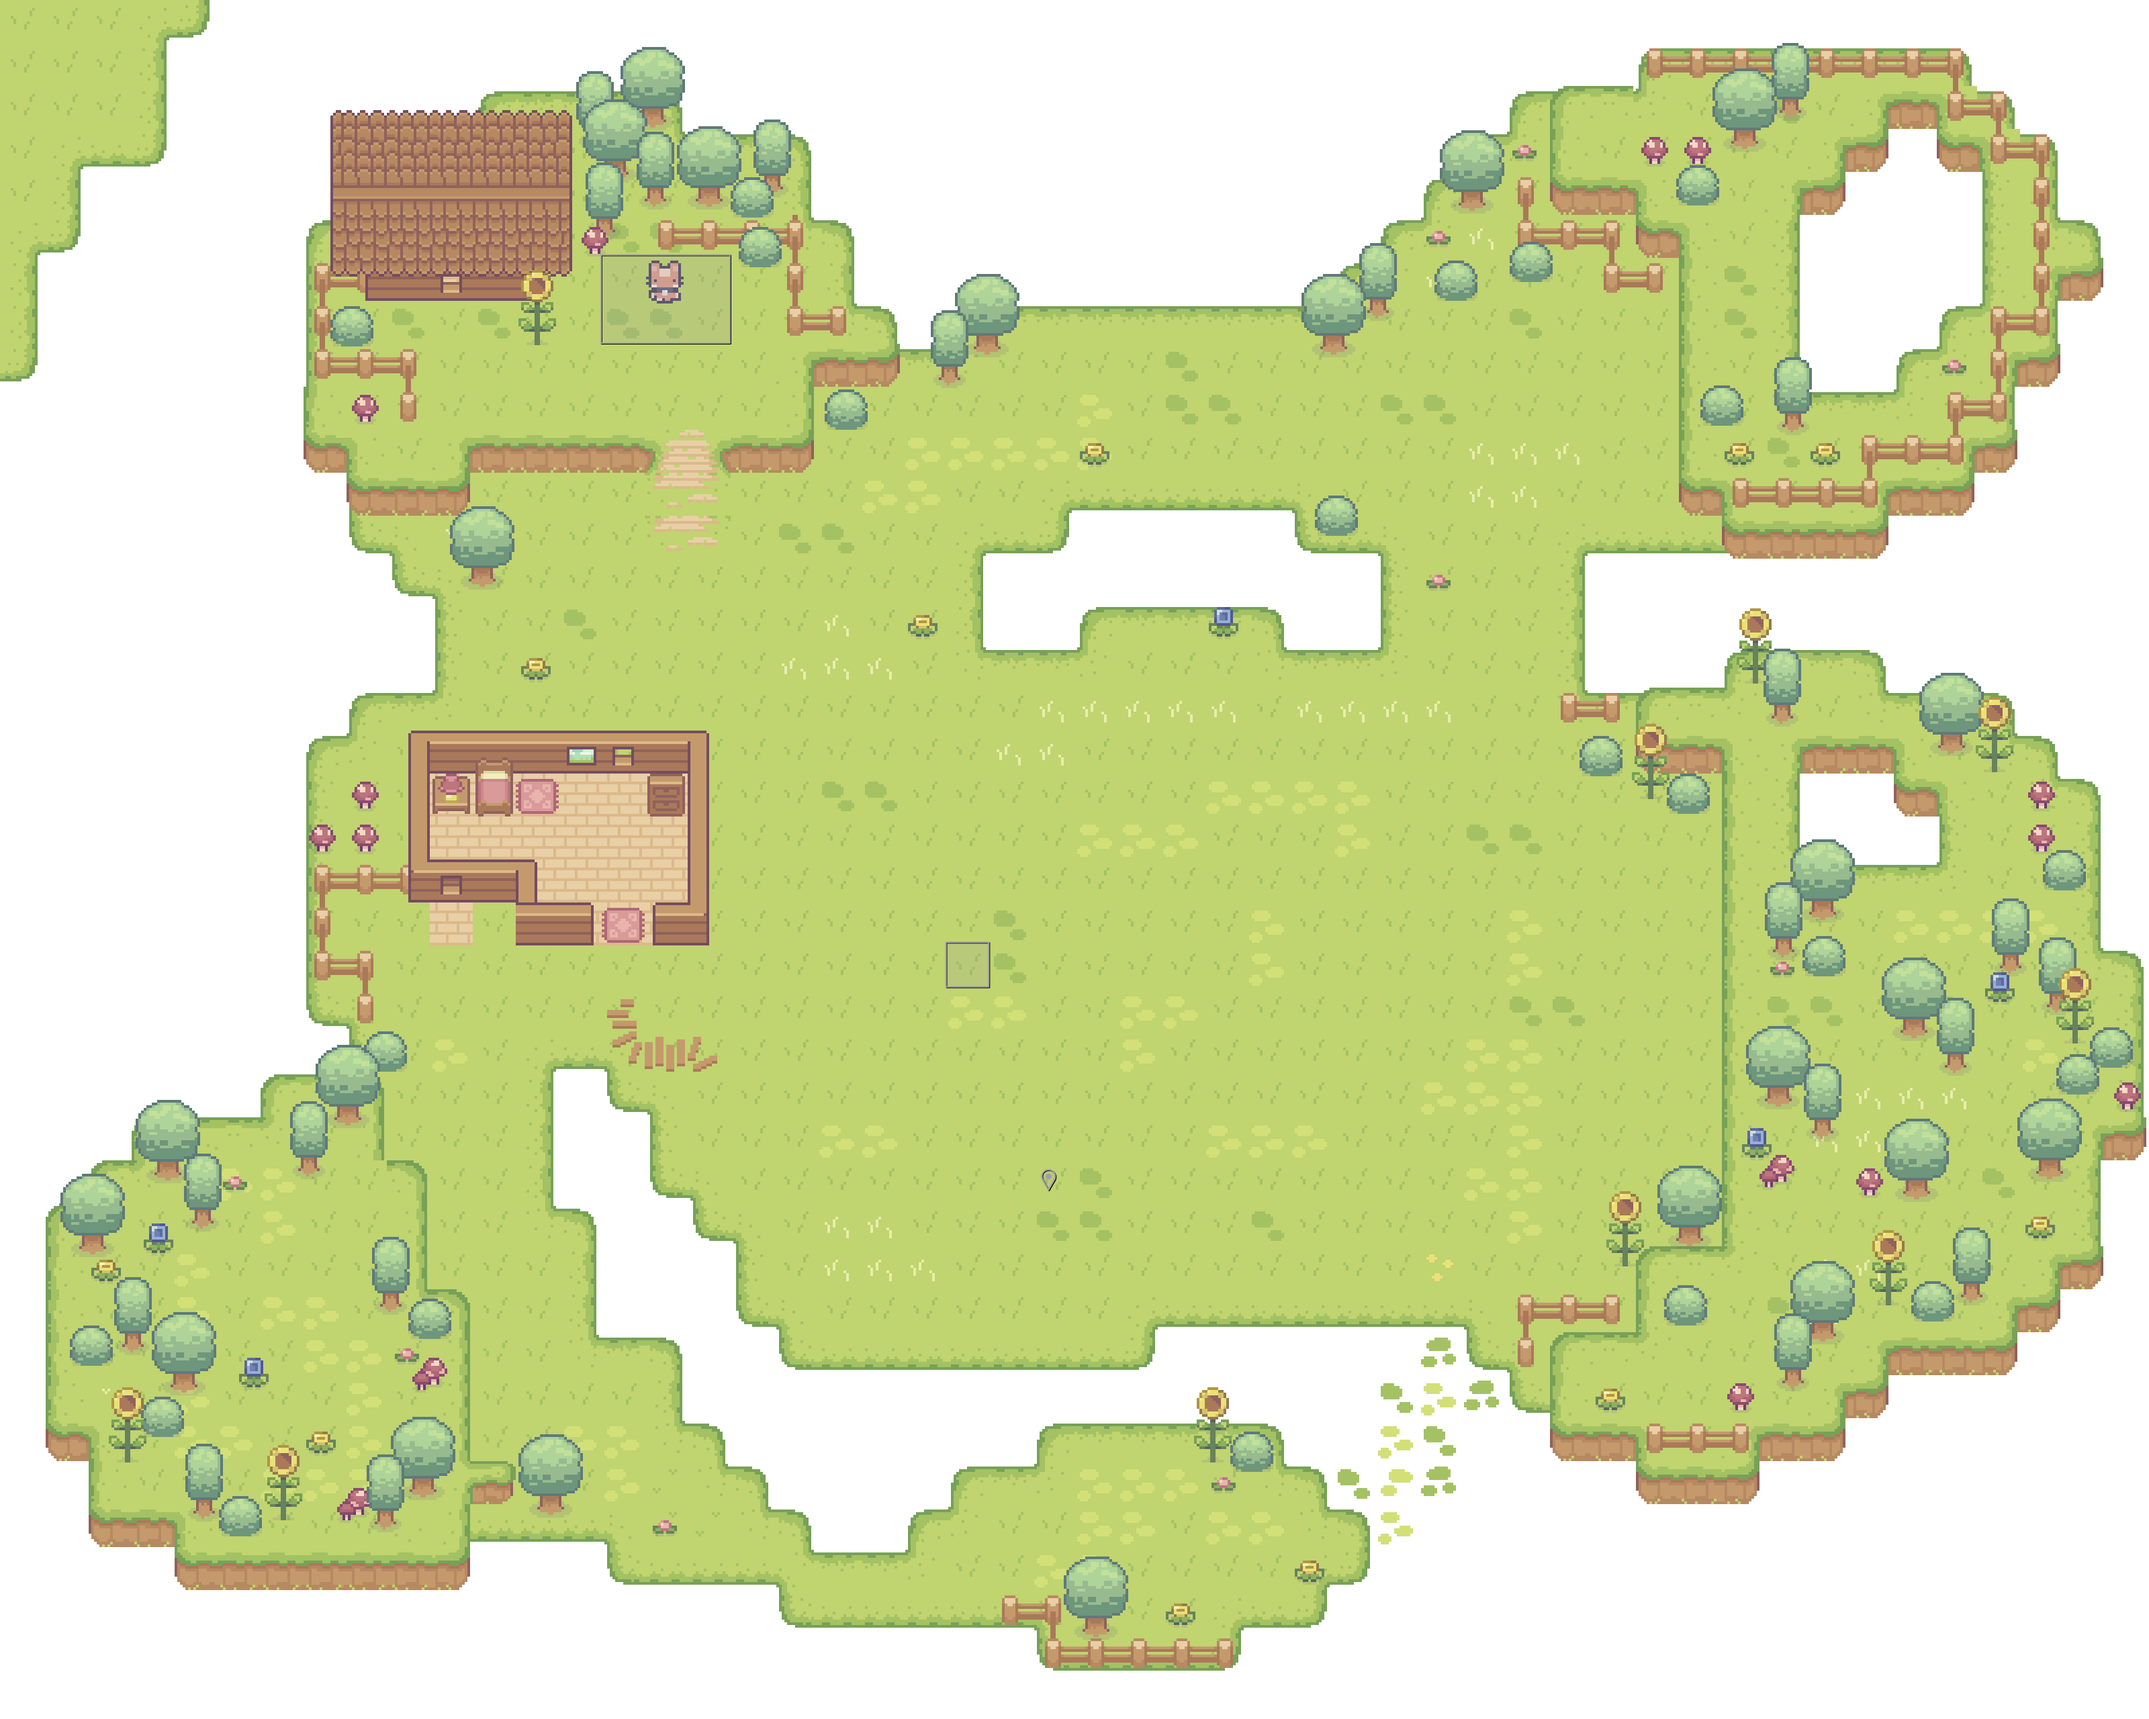
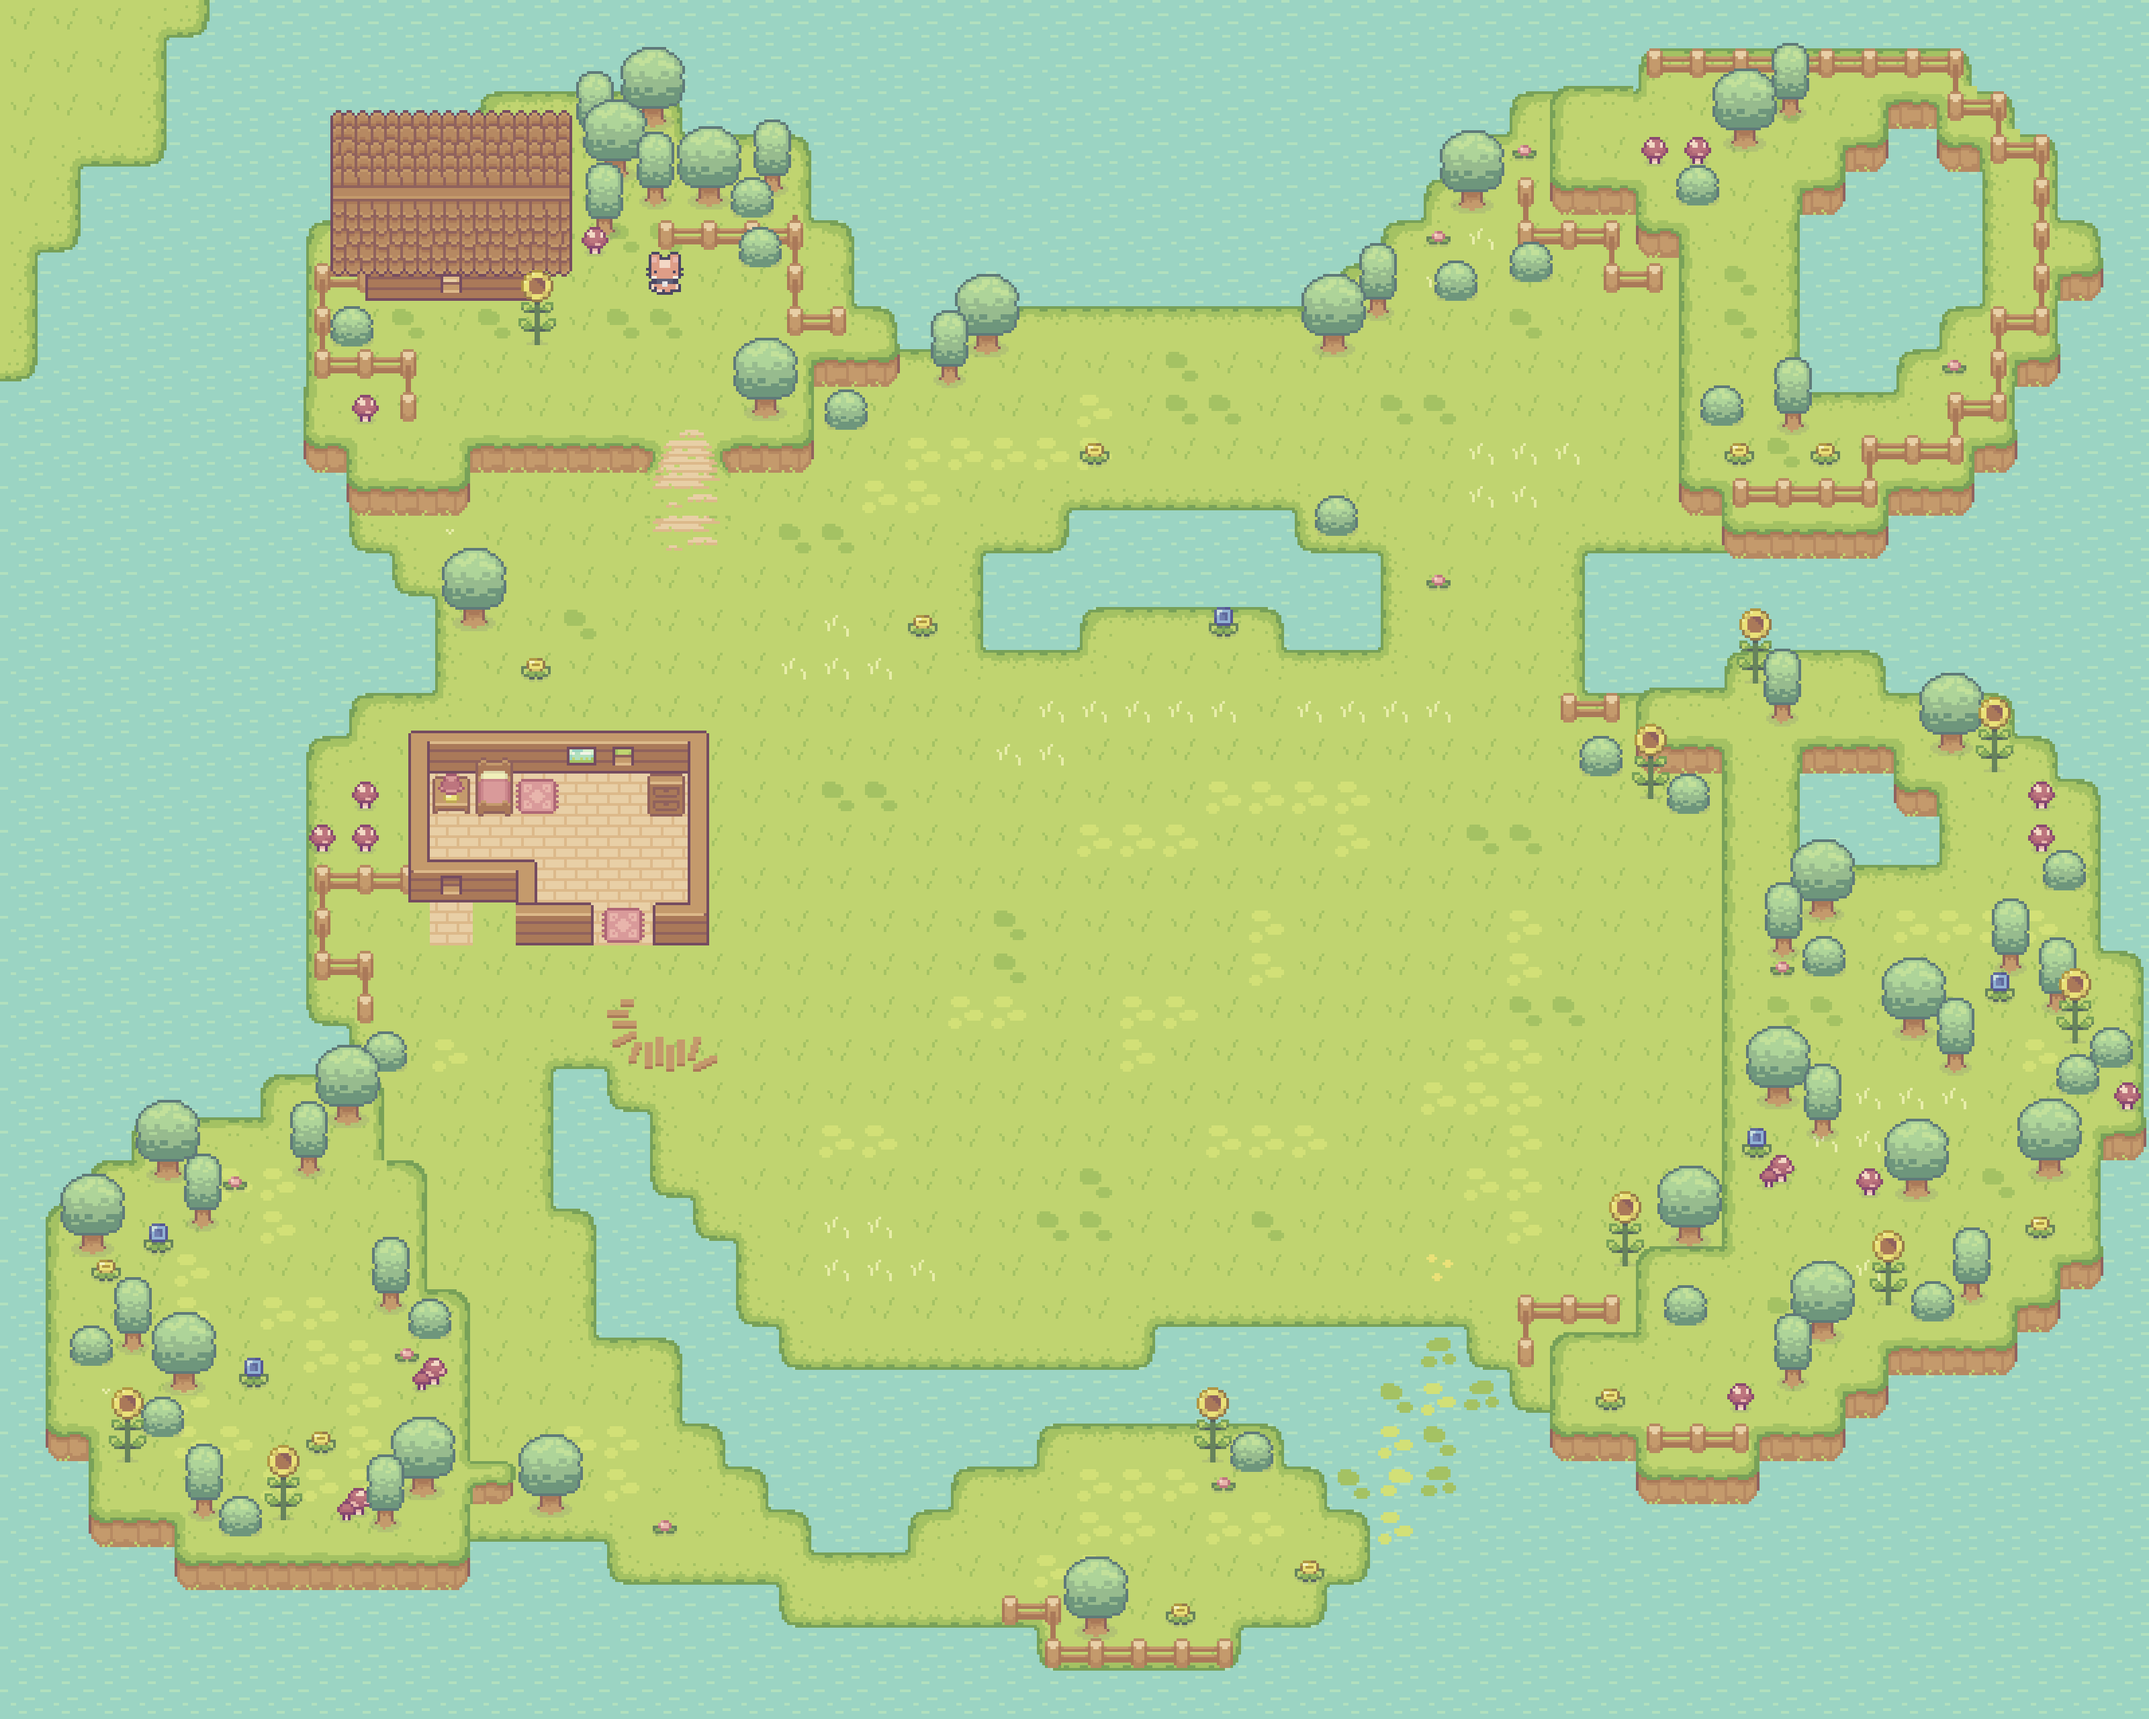
完成地图绘制、基本玩家设置、商店功能（导入外部中文字库），存在不能切换工具和种子的bug

diff --git a/code/test.py b/code/test.py
@@ -21,15 +21,14 @@ PLAYER_TOOL_OFFSET = {
 	'down': Vector2(0,50)}
 #图层顺序
 LAYERS = {
-	'water': 0,
-	'ground': 1,
-	'soil': 2,
-	'soil water': 3,
-	'house bottom': 4,
-	'ground plant': 5,
-	'main': 6,
-	'house top': 7,
-	'fruit': 8,}
+	'ground': 0,
+	'soil': 1,
+	'soil water': 2,
+	'house bottom': 3,
+	'ground plant': 4,
+	'main': 5,
+	'house top': 6,
+	'fruit': 7,}
 #作物生长速度
 GROW_SPEED = {
 	'corn': 1,
@@ -87,7 +86,7 @@ def import_folder_dict(path):
 			surface_dict[image.split('.')[0]] = image_surf
 	return surface_dict
 
-#计时器-----------------------------------------------------------
+#计时器（动作激活时间长短）-----------------------------------------------------------
 class Timer:
 	def __init__(self,duration,func = None):
 		self.duration = duration
@@ -149,27 +148,6 @@ class Interaction(Generic):
 		super().__init__(pos, surf, groups)
 		self.name = name
 
-class Water(Generic):
-	def __init__(self, pos, frames, groups):
-		#animation setup
-		self.frames = frames
-		self.frame_index = 0
-		# sprite setup
-		super().__init__(
-				pos = pos, 
-				surf = self.frames[self.frame_index], 
-				groups = groups, 
-				z = LAYERS['water']) 
-
-	def animate(self,dt):
-		self.frame_index += 5 * dt
-		if self.frame_index >= len(self.frames):
-			self.frame_index = 0
-		self.image = self.frames[int(self.frame_index)]
-
-	def update(self,dt):
-		self.animate(dt)
-
 class WildFlower(Generic):
 	def __init__(self, pos, surf, groups):
 		super().__init__(pos, surf, groups)
@@ -185,11 +163,6 @@ class Particle(Generic):
 		new_surf = mask_surf.to_surface()
 		new_surf.set_colorkey((0,0,0))
 		self.image = new_surf
-
-	def update(self,dt):
-		current_time = pygame.time.get_ticks()
-		if current_time - self.start_time > self.duration:
-			self.kill()
 
 	def update(self,dt):
 		current_time = pygame.time.get_ticks()
@@ -239,7 +212,6 @@ class Player(pygame.sprite.Sprite):
 
 		# 玩家初始背包
 		self.item_inventory = {
-			'wood':   20,
 			'apple':  20,
 			'corn':   20,
 			'tomato': 20
@@ -250,7 +222,7 @@ class Player(pygame.sprite.Sprite):
 		}
 		self.money = 200
 
-		# 交互初始化
+		# 交互初始化（睡觉、土地、商店）
 		self.interaction = interaction
 		self.sleep = False
 		self.soil_layer = soil_layer
@@ -271,7 +243,7 @@ class Player(pygame.sprite.Sprite):
      #获取工具使用目标位置
 	def get_target_pos(self):
 		self.target_pos = self.rect.center + PLAYER_TOOL_OFFSET[self.status.split('_')[0]]
-
+	#种地动作
 	def use_seed(self):
 		if self.seed_inventory[self.selected_seed] > 0:
 			self.soil_layer.plant_seed(self.target_pos, self.selected_seed)
@@ -296,7 +268,6 @@ class Player(pygame.sprite.Sprite):
     #键盘输入
 	def input(self):
 		keys = pygame.key.get_pressed()
-
 		if not self.timers['tool use'].active and not self.sleep:
 			# 移动 获得方向向量（y分量）
 			if keys[pygame.K_UP]:
@@ -316,20 +287,18 @@ class Player(pygame.sprite.Sprite):
 				self.status = 'left'
 			else:
 				self.direction.x = 0
-
 			# 工具使用
 			if keys[pygame.K_SPACE]:
 				self.timers['tool use'].activate()
 				self.direction = pygame.math.Vector2()
 				self.frame_index = 0
-
 			# 切换工具
 			if keys[pygame.K_q] and not self.timers['tool switch'].active:
 				self.timers['tool switch'].activate()
 				self.tool_index += 1
-				self.tool_index = self.tool_index if self.tool_index < len(self.tools) else 0
+				if self.tool_index >= len(self.tools):
+					self.tool_index = 0
 				self.selected_tool = self.tools[self.tool_index]
-
 			# 种子使用
 			if keys[pygame.K_LCTRL]:
 				self.timers['seed use'].activate()
@@ -340,7 +309,8 @@ class Player(pygame.sprite.Sprite):
 			if keys[pygame.K_e] and not self.timers['seed switch'].active:
 				self.timers['seed switch'].activate()
 				self.seed_index += 1
-				self.seed_index = self.seed_index if self.seed_index < len(self.seeds) else 0
+				if self.seed_index >= len(self.seeds):
+					self.seed_index = 0
 				self.selected_seed = self.seeds[self.seed_index]
             # 交互（商店、睡觉）
 			if keys[pygame.K_RETURN]:
@@ -397,7 +367,7 @@ class Player(pygame.sprite.Sprite):
 		self.collision('horizontal')
 		# 垂直方向移动
 		self.pos.y += self.direction.y * self.speed * dt
-		self.hitbox.centery = round(self.pos.y)
+		self.hitbox.centery = round(self.pos.y)#四舍五入
 		self.rect.centery = self.hitbox.centery
 		self.collision('vertical')
 
@@ -634,24 +604,19 @@ class Sky:
 #商店交易-----------------------------------------------------
 class Menu:
 	def __init__(self, player, toggle_menu):
-
-		# general setup
 		self.player = player
 		self.toggle_menu = toggle_menu
 		self.display_surface = pygame.display.get_surface()
-		self.font = pygame.font.Font('../font/LycheeSoda.ttf', 30)
-
-		# options
+		self.font = pygame.font.Font('../font/ChangBanDianSong-12.ttf', 30)
+		# 选择区块样式
 		self.width = 400
 		self.space = 10
 		self.padding = 8
-
-		# entries
+		# 条目设置
 		self.options = list(self.player.item_inventory.keys()) + list(self.player.seed_inventory.keys())
 		self.sell_border = len(self.player.item_inventory) - 1
 		self.setup()
-
-		# movement
+		# 选择器
 		self.index = 0
 		self.timer = Timer(200)
 
@@ -659,85 +624,76 @@ class Menu:
 		text_surf = self.font.render(f'${self.player.money}', False, 'Black')
 		text_rect = text_surf.get_rect(midbottom = (SCREEN_WIDTH / 2,SCREEN_HEIGHT - 20))
 
-		pygame.draw.rect(self.display_surface,'White',text_rect.inflate(10,10),0,4)
+		pygame.draw.rect(self.display_surface,'White',text_rect.inflate(10,10),0,4)#绘制选择框，文字区域扩大10后的区域，0：填充实心，圆角半径4
 		self.display_surface.blit(text_surf,text_rect)
 
 	def setup(self):
-
-		# create the text surfaces
+		# 计算菜单总高度
 		self.text_surfs = []
 		self.total_height = 0
 
 		for item in self.options:
+			if item=='corn':
+				item='玉米'
+			elif item=='tomato':
+				item='西红柿'
+			elif item=='apple':
+				item='苹果'
 			text_surf = self.font.render(item, False, 'Black')
 			self.text_surfs.append(text_surf)
 			self.total_height += text_surf.get_height() + (self.padding * 2)
-
 		self.total_height += (len(self.text_surfs) - 1) * self.space
 		self.menu_top = SCREEN_HEIGHT / 2 - self.total_height / 2
 		self.main_rect = pygame.Rect(SCREEN_WIDTH / 2 - self.width / 2,self.menu_top,self.width,self.total_height)
-
-		# buy / sell text surface
-		self.buy_text = self.font.render('buy',False,'Black')
-		self.sell_text =  self.font.render('sell',False,'Black')
-
+		#购买、出售文字
+		self.buy_text = self.font.render('购买',False,'Blue')
+		self.sell_text =  self.font.render('出售',False,'Green')
+	#键盘控制选择、买卖、退出
 	def input(self):
 		keys = pygame.key.get_pressed()
 		self.timer.update()
-
 		if keys[pygame.K_ESCAPE]:
 			self.toggle_menu()
-
 		if not self.timer.active:
 			if keys[pygame.K_UP]:
 				self.index -= 1
 				self.timer.activate()
-
 			if keys[pygame.K_DOWN]:
 				self.index += 1
 				self.timer.activate()
-
 			if keys[pygame.K_SPACE]:
 				self.timer.activate()
-
-				# get item
+				# 获取当前物品
 				current_item = self.options[self.index]
-
-				# sell
+				# 卖
 				if self.index <= self.sell_border:
 					if self.player.item_inventory[current_item] > 0:
 						self.player.item_inventory[current_item] -= 1
 						self.player.money += SALE_PRICES[current_item]
-
-				# buy
+				# 买
 				else:
 					seed_price = PURCHASE_PRICES[current_item]
 					if self.player.money >= seed_price:
 						self.player.seed_inventory[current_item] += 1
 						self.player.money -= PURCHASE_PRICES[current_item]
-
-		# clamo the values
+		#选择器循环
 		if self.index < 0:
 			self.index = len(self.options) - 1
 		if self.index > len(self.options) - 1:
 			self.index = 0
 
 	def show_entry(self, text_surf, amount, top, selected):
-
-		# background
+		# 背景
 		bg_rect = pygame.Rect(self.main_rect.left,top,self.width,text_surf.get_height() + (self.padding * 2))
 		pygame.draw.rect(self.display_surface, 'White',bg_rect, 0, 4)
-
-		# text
+		# 文本
 		text_rect = text_surf.get_rect(midleft = (self.main_rect.left + 20,bg_rect.centery))
 		self.display_surface.blit(text_surf, text_rect)
-
-		# amount
+		# 数目
 		amount_surf = self.font.render(str(amount), False, 'Black')
 		amount_rect = amount_surf.get_rect(midright = (self.main_rect.right - 20,bg_rect.centery))
 		self.display_surface.blit(amount_surf, amount_rect)
-
-		# selected
+		# 选择框
 		if selected:
 			pygame.draw.rect(self.display_surface,'black',bg_rect,4,4)
 			if self.index <= self.sell_border: # sell
@@ -750,7 +706,6 @@ class Menu:
 	def update(self):
 		self.input()
 		self.display_money()
-
 		for text_index, text_surf in enumerate(self.text_surfs):
 			top = self.main_rect.top + text_index * (text_surf.get_height() + (self.padding * 2) + self.space)
 			amount_list = list(self.player.item_inventory.values()) + list(self.player.seed_inventory.values())
@@ -795,10 +750,6 @@ class Level:
 		# Fence
 		for x, y, surf in tmx_data.get_layer_by_name('Fence').tiles():
 			Generic((x * TILE_SIZE,y * TILE_SIZE), surf, [self.all_sprites, self.collision_sprites])
-		# water
-		water_frames = import_folder('../graphics/water')
-		for x, y, surf in tmx_data.get_layer_by_name('Water').tiles():
-			Water((x * TILE_SIZE,y * TILE_SIZE), water_frames, self.all_sprites)
 		# wildflowers 
 		for obj in tmx_data.get_layer_by_name('Decoration'):
 			WildFlower((obj.x, obj.y), obj.image, [self.all_sprites, self.collision_sprites])
@@ -822,7 +773,7 @@ class Level:
 
 		Generic(
 			pos = (0,0),
-			surf = pygame.image.load('../graphics/world/ground.png').convert_alpha(),
+			surf = pygame.image.load('../graphics/world/ground.png').convert(),
 			groups = self.all_sprites,
 			z = LAYERS['ground'])
 
